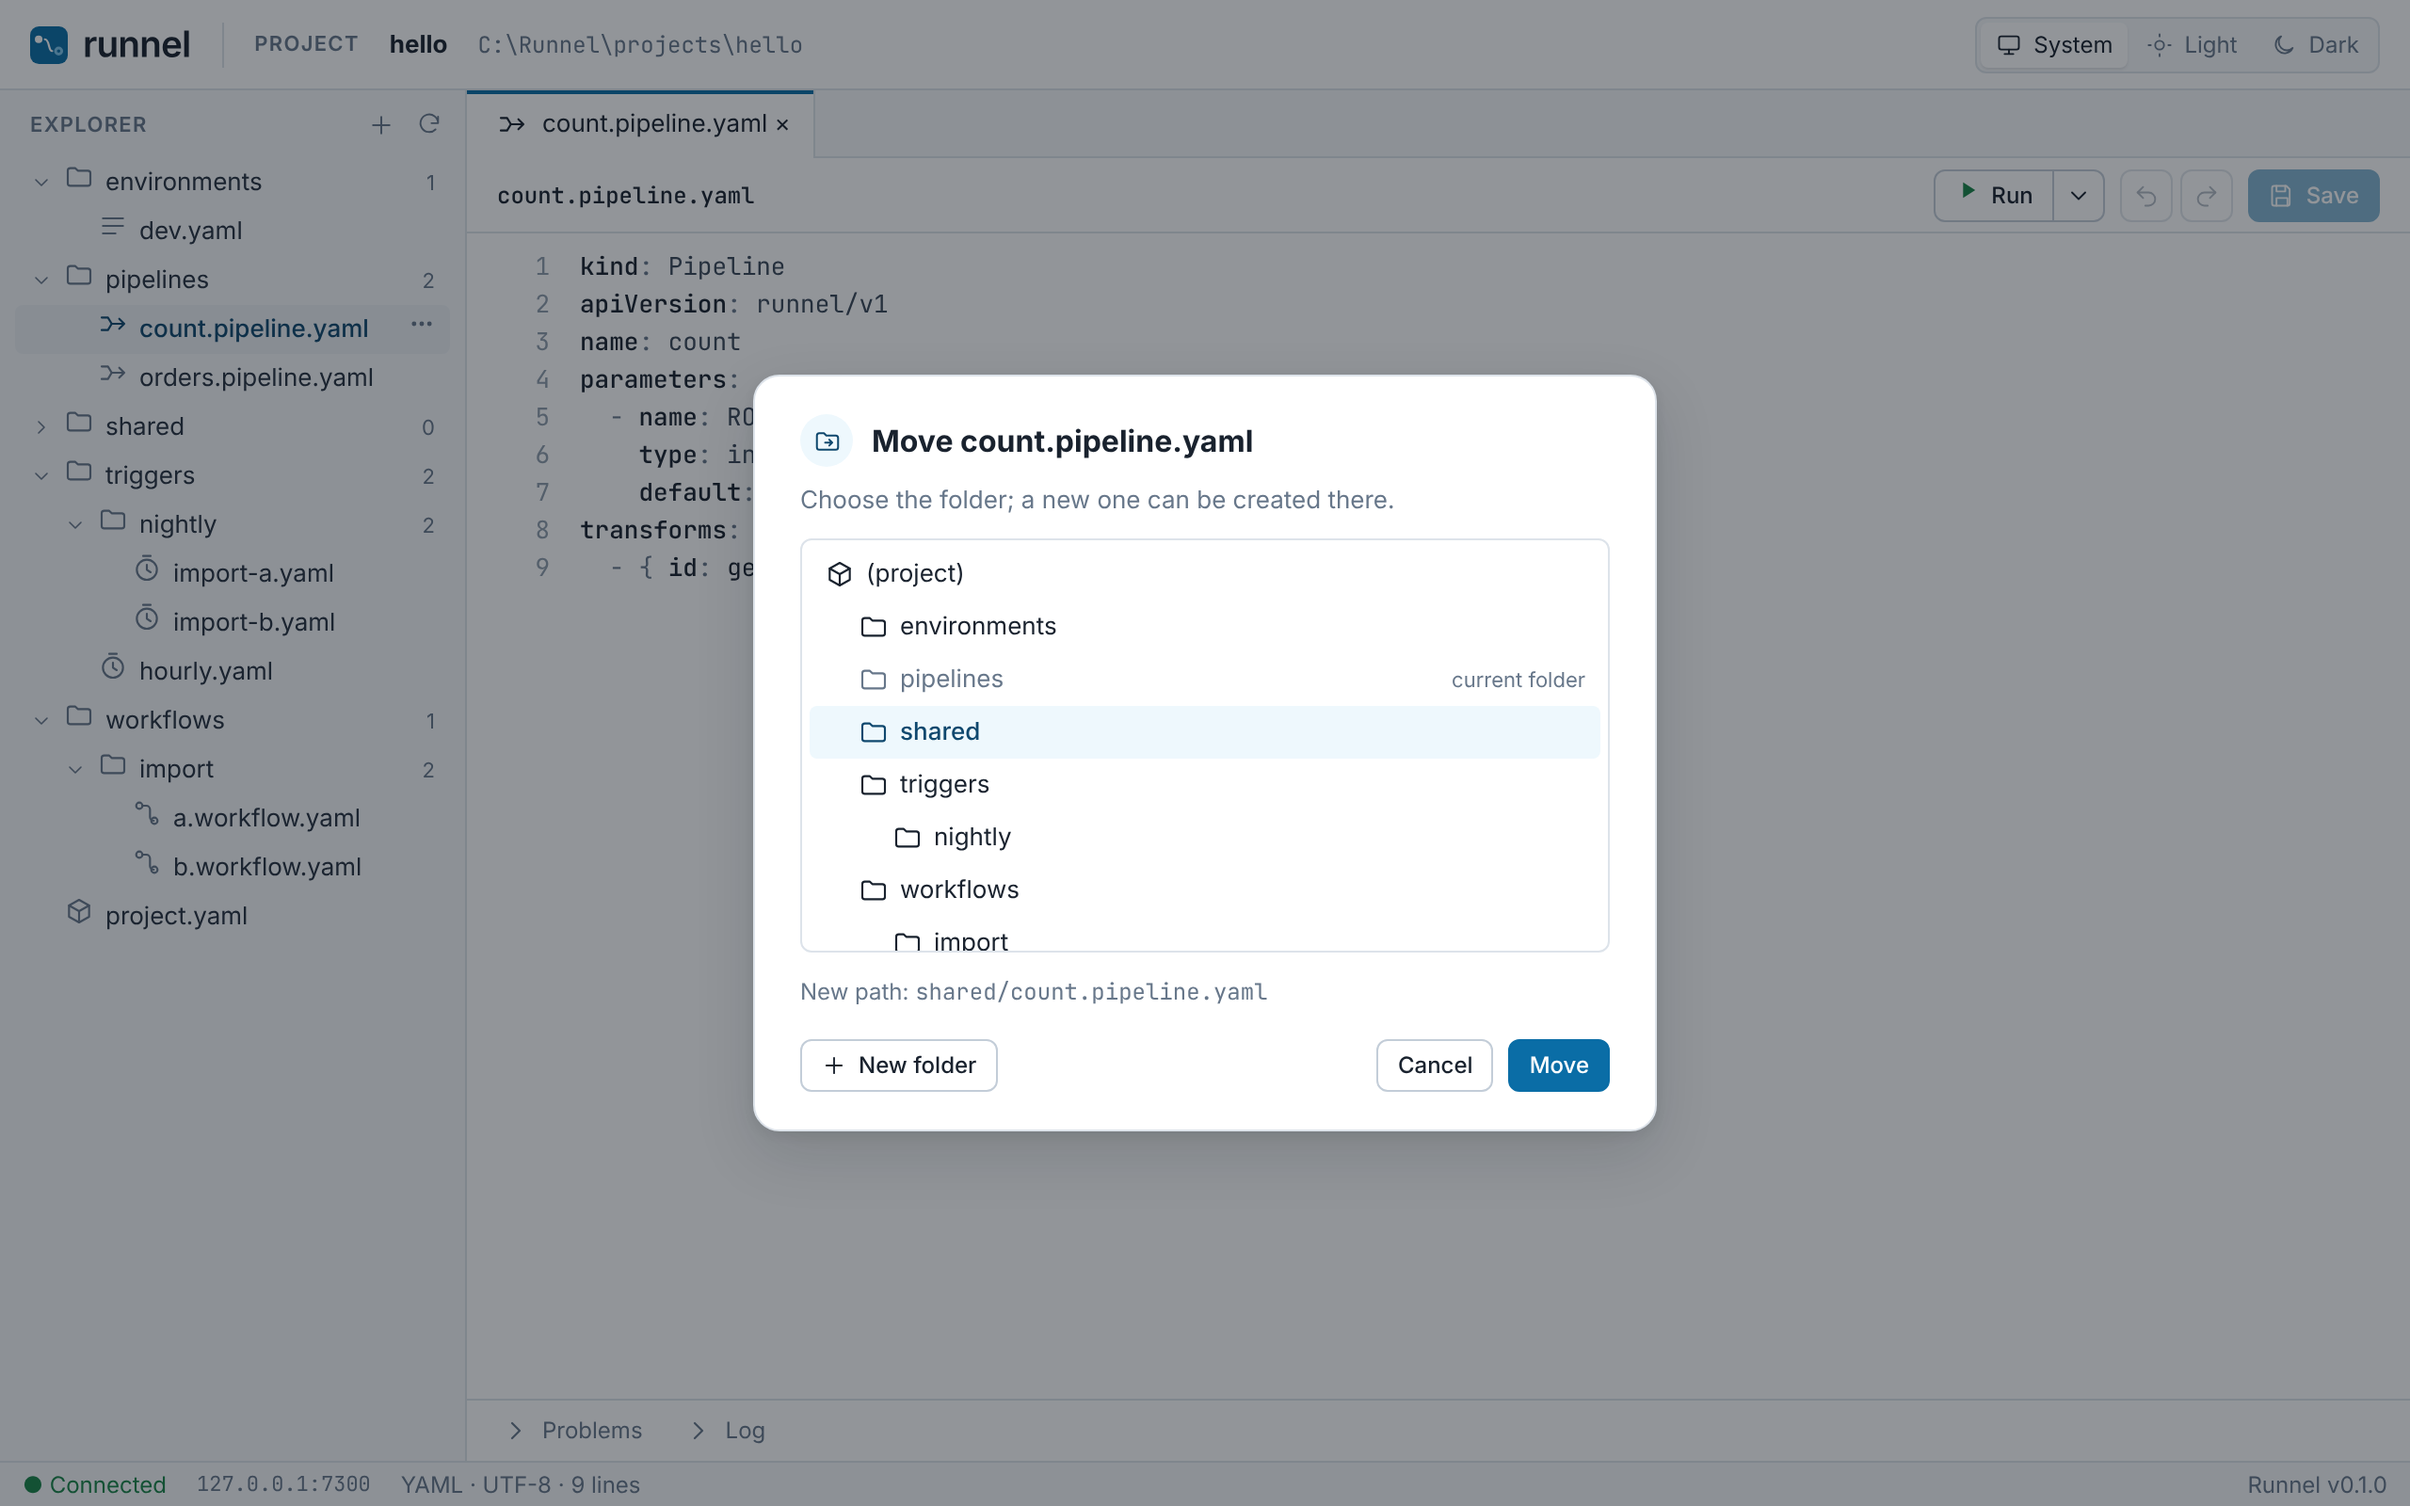
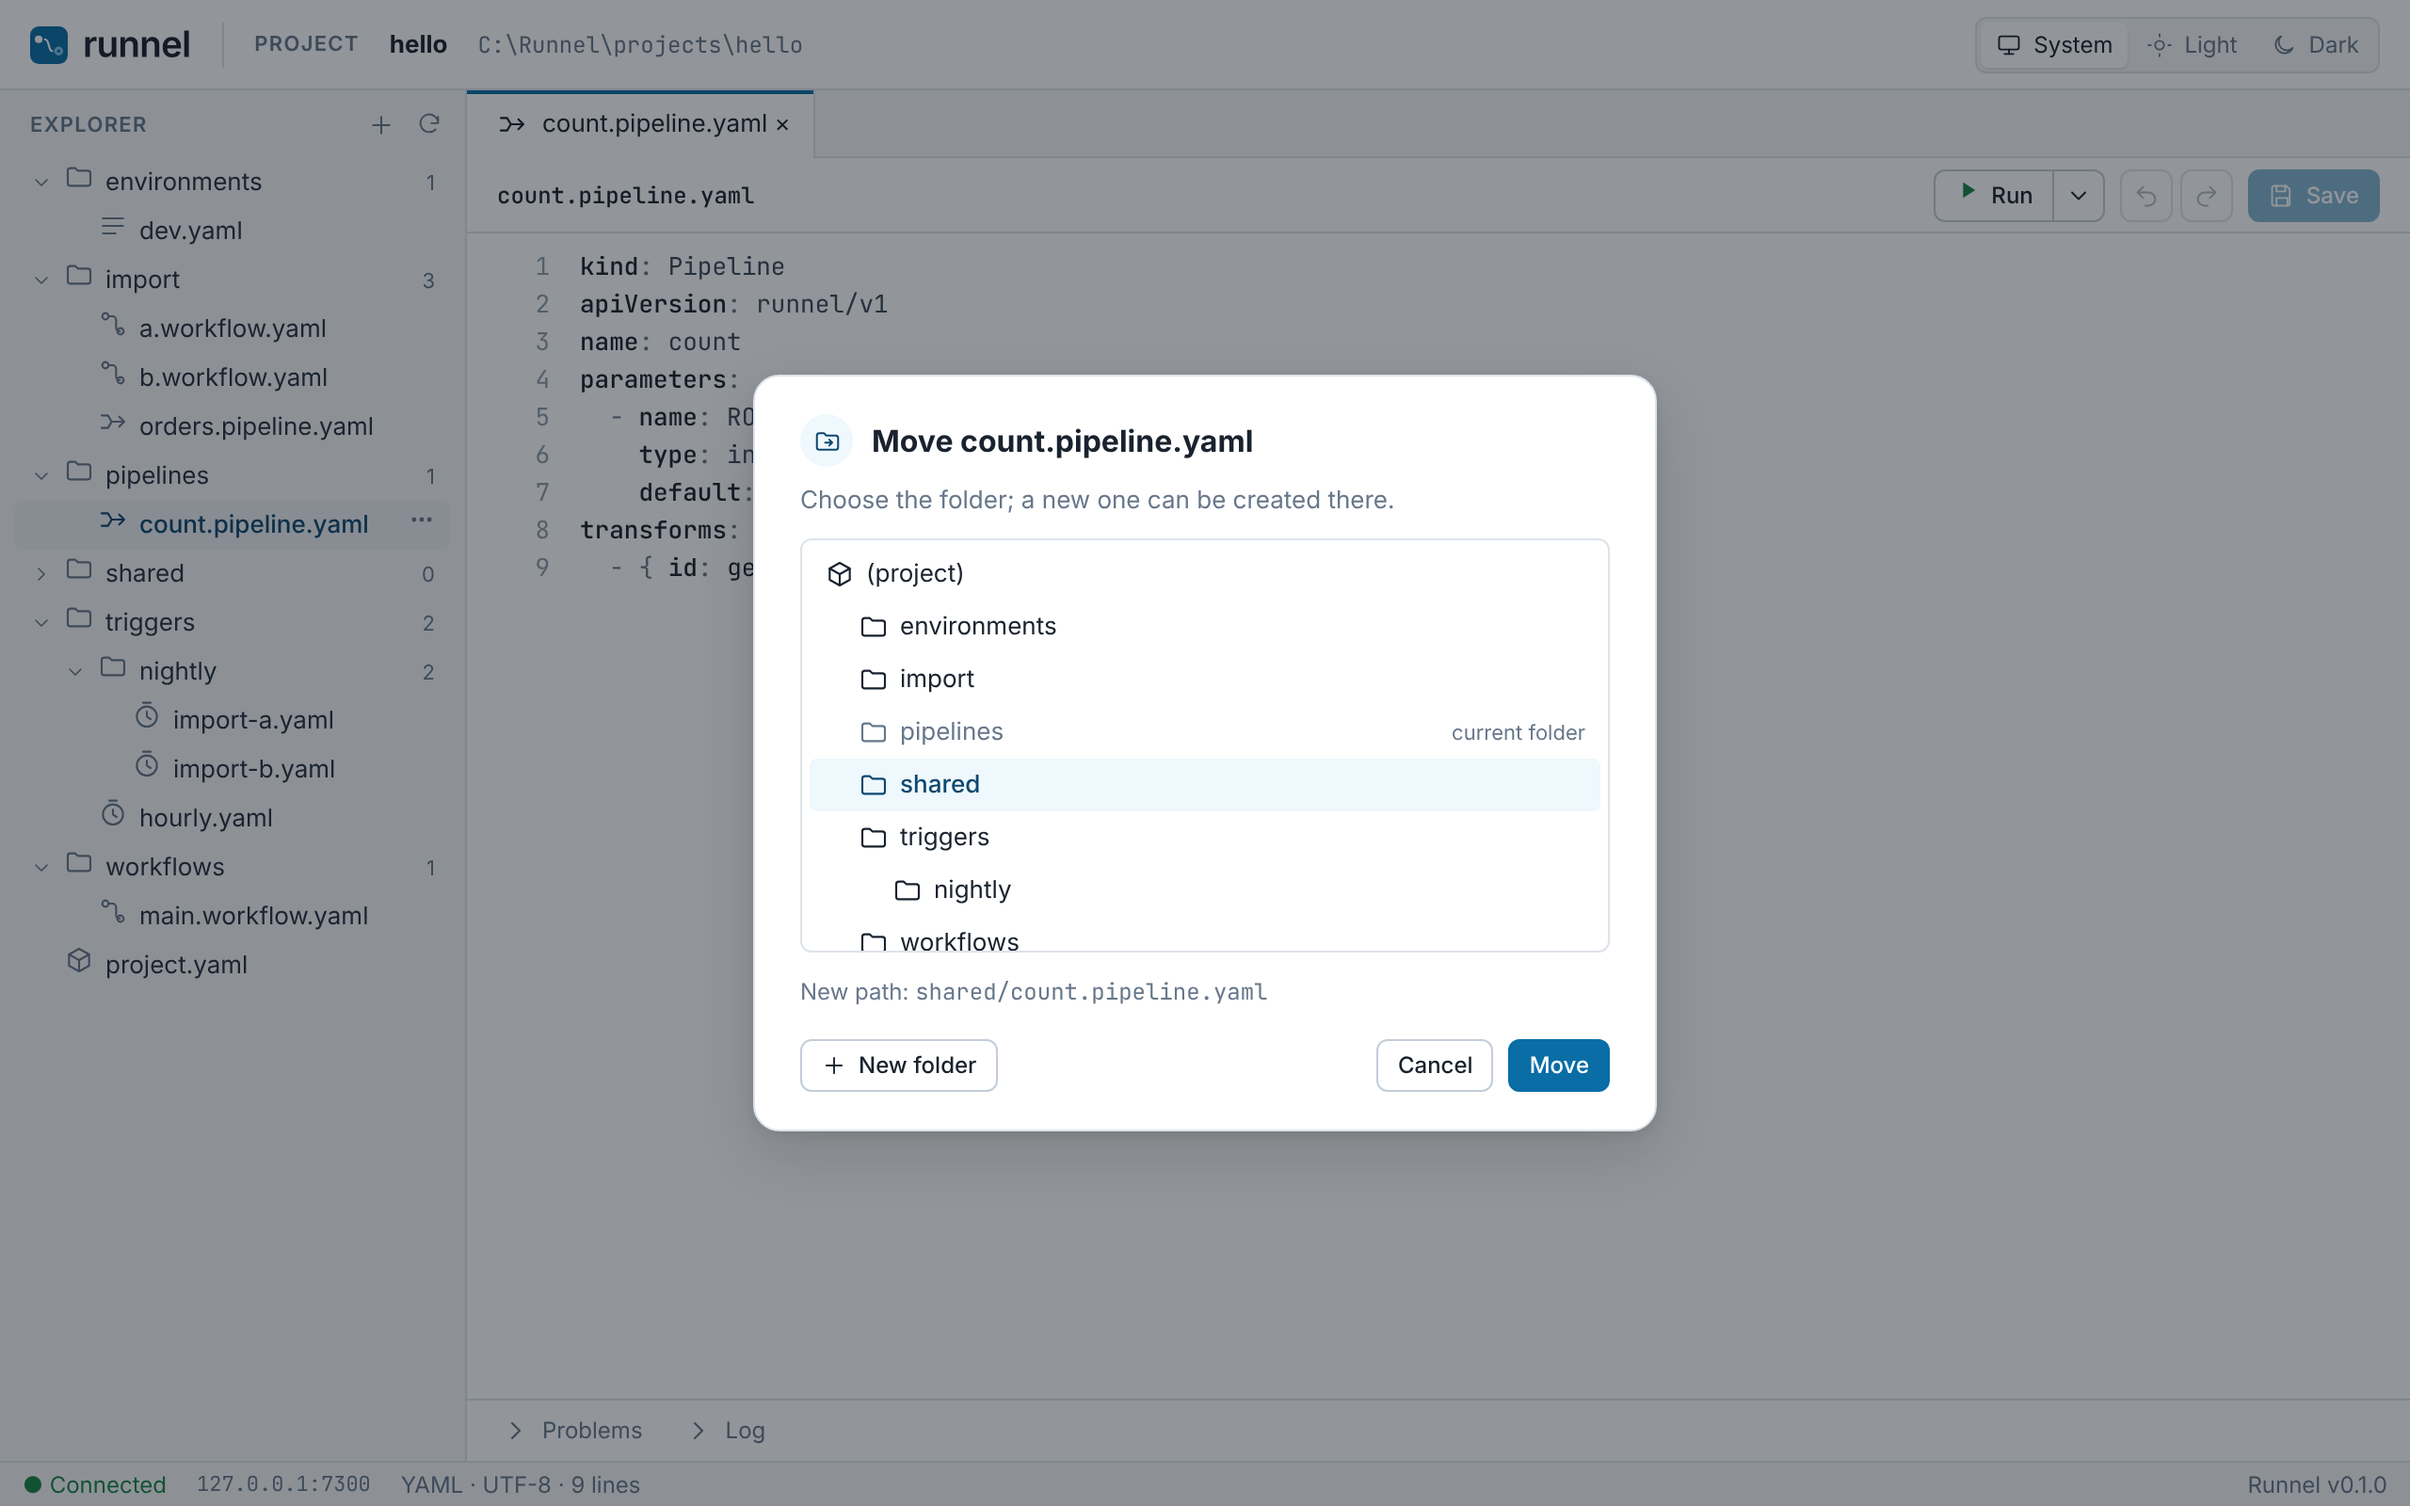
Mockup E12: Ordner nach Thema im Beispiel
Workflows und Pipeline gemeinsam in import/, dazu die Entscheidung,
dass Ordner frei gewählt werden können.

Claude-Session: https://claude.ai/code/session_015qsFfg698d5y1E1DunyBAf

Changed region(s): [[0.0312, 0.1875, 0.1562, 0.6562], [0.375, 0.4375, 0.4062, 0.6562], [0.625, 0.4375, 0.6562, 0.5]]

diff --git a/design/mockups/e12-organize.html b/design/mockups/e12-organize.html
@@ -602,12 +602,15 @@
 
   // A larger project: workflows in folders, a shared pipeline, triggers in a subfolder.
   const moved = state === "refs";
+  // Folders by topic: import/ holds workflows and the pipeline only they use;
+  // pipelines/count is used by several workflows and moves to shared/.
   const rows = [
     ["folder", "environments", 0, "1"], ["env", "dev.yaml", 1],
-    ["folder", "pipelines", 0, moved ? "1" : "2"], ...(moved ? [] : [["pl", "count.pipeline.yaml", 1]]), ["pl", "orders.pipeline.yaml", 1],
+    ["folder", "import", 0, "3"], ["wf", "a.workflow.yaml", 1], ["wf", "b.workflow.yaml", 1], ["pl", "orders.pipeline.yaml", 1],
+    ["folder", "pipelines", 0, moved ? "0" : "1"], ...(moved ? [] : [["pl", "count.pipeline.yaml", 1]]),
     ["folder", "shared", 0, moved ? "1" : "0"], ...(moved ? [["pl", "count.pipeline.yaml", 1]] : []),
     ["folder", "triggers", 0, "2"], ["folder", "nightly", 1, "2"], ["trigger", "import-a.yaml", 2], ["trigger", "import-b.yaml", 2], ["trigger", "hourly.yaml", 1],
-    ["folder", "workflows", 0, "1"], ["folder", "import", 1, "2"], ["wf", "a.workflow.yaml", 2], ["wf", "b.workflow.yaml", 2],
+    ["folder", "workflows", 0, "1"], ["wf", "main.workflow.yaml", 1],
     ["proj", "project.yaml", 0]];
   const selected = state === "triggers" ? "import-a.yaml" : "count.pipeline.yaml";
   document.getElementById("tree").innerHTML = rows.map(([k, n, d, c]) => {
@@ -635,7 +638,7 @@
 
   const lines = state === "triggers"
     ? ["# Imports file A every night (in triggers/nightly/)", "kind: Trigger", "apiVersion: runnel/v1", "name: import-a", "type: cron",
-       "target: workflows/import/a.workflow.yaml", "with:", '  schedule: "0 2 * * *"']
+       "target: import/a.workflow.yaml", "with:", '  schedule: "0 2 * * *"']
     : ["kind: Pipeline", "apiVersion: runnel/v1", "name: count", "parameters:", "  - name: ROWS", "    type: integer", '    default: "3"',
        "transforms:", '  - { id: gen, type: core.generate-rows, with: { rows: "${ROWS}" } }'];
   const vars = v => esc(v).replace(/(\$\{[^}]*\})/g, `<span class="v">$1</span>`);
@@ -658,8 +661,8 @@
     host.insertAdjacentHTML("beforeend", `<div class="dragghost" style="left:120px;top:${top0 + 300}px">${icon(kind.pl, 14)}count.pipeline.yaml<small>→ shared/</small></div>`);
   }
   if (state === "moveto") {
-    const folders = [["", "(project)", 0], ["environments", "environments", 1], ["pipelines", "pipelines", 1, true], ["shared", "shared", 1, false, true],
-                     ["triggers", "triggers", 1], ["triggers/nightly", "nightly", 2], ["workflows", "workflows", 1], ["workflows/import", "import", 2]];
+    const folders = [["", "(project)", 0], ["environments", "environments", 1], ["import", "import", 1], ["pipelines", "pipelines", 1, true],
+                     ["shared", "shared", 1, false, true], ["triggers", "triggers", 1], ["triggers/nightly", "nightly", 2], ["workflows", "workflows", 1]];
     host.insertAdjacentHTML("beforeend", `<div class="overlay"><div class="dialog" role="dialog">
       <h2><span class="sym" style="background:var(--accent);color:var(--accent-foreground)">${icon(kind.move, 15)}</span>Move count.pipeline.yaml</h2>
       <p>Choose the folder; a new one can be created there.</p>
@@ -673,8 +676,8 @@
       <h2><span class="sym" style="background:var(--accent);color:var(--accent-foreground)">${icon(kind.move, 15)}</span>Update the references?</h2>
       <p>count.pipeline.yaml moves to <code class="mono">shared/count.pipeline.yaml</code>. 3 files refer to it by its old path:</p>
       <div class="refs update"><ul class="reflist">
-        ${[["workflows/import/a.workflow.yaml", "action count (core.run-pipeline)"], ["workflows/import/b.workflow.yaml", "action count (core.run-pipeline)"],
-           ["workflows/import/b.workflow.yaml", "action totals (core.run-pipeline)"]].map(([f, w]) =>
+        ${[["import/a.workflow.yaml", "action count (core.run-pipeline)"], ["import/b.workflow.yaml", "action count (core.run-pipeline)"],
+           ["workflows/main.workflow.yaml", "action totals (core.run-pipeline)"]].map(([f, w]) =>
           `<li><label class="check"><span class="box on">✔</span></label><span><code class="mono">${f}</code> – ${w}
             <span class="diff">pipeline: <del>pipelines/count.pipeline.yaml</del> <ins>shared/count.pipeline.yaml</ins></span></span></li>`).join("")}
       </ul></div>

diff --git a/design/mockups/README.md b/design/mockups/README.md
@@ -83,6 +83,7 @@ zwischen hellem und dunklem Modus und den Zuständen (sie gehört nicht zum Entw
 | S44 | Die Tabelle bleibt ohne neue Abhängigkeit (höchstens 1.000 Zeilen, keine Virtualisierung nötig); das Konzept nannte `@tanstack/react-table` – erst bei Bedarf |
 | S44 | „Refresh“ führt die Vorschau nach Änderungen erneut aus; ein Fehler zeigt, an welchem Transform die Vorschau stehen blieb, mit der Meldung |
 | S46 | „Detect fields…“ im Abschnitt „Fields“ des Panels bei Eingabe-Transforms, die Felder ermitteln können (zuerst `csv.input`); der Server meldet das je Typ, der Editor zeigt den Knopf nur dort |
+| E12 | Ordner sind frei: nach Art (`workflows/`, `pipelines/`) oder nach Thema (z. B. `import/` mit den Workflows und der Pipeline, die nur sie nutzen; `shared/` für gemeinsam genutzte Pipelines). Ob eine Datei Workflow oder Pipeline ist, entscheidet die Endung; `workflows/` und `pipelines/` sind nur die Vorgabe für „+“ im Kopf des Explorers. Nur Trigger (`triggers/`) und Environments (`environments/`) haben feste Ordner |
 | E12 | Verschieben auf zwei Wegen: Ziehen und Ablegen im Explorer (der Zielordner wird hervorgehoben, ein Hinweis nennt den Zielordner) und „Move to…“ im Menü einer Datei oder eines Ordners mit einer Ordnerauswahl (aktueller Ordner ausgegraut, „New folder“ im Dialog) |
 | E12 | Beim Verschieben und Umbenennen fragt ein Dialog „Update the references?“, wenn andere Dateien auf den alten Pfad verweisen (Trigger-Ziel, `core.run-workflow`, `core.run-pipeline` mit festem Pfad, wie die Rückfrage beim Löschen in E11): je Verweis Datei, Stelle und alter → neuer Pfad, standardmäßig ausgewählt; „Move and update n references“, „Move only“ oder „Cancel“. Ohne Verweise kein Dialog |
 | E12 | Angepasst wird nur der Pfad in der betroffenen Zeile; die Dateien werden gespeichert. Verweise mit Variablen oder Ausdrücken werden nicht erkannt und nicht geändert (die Prüfung meldet sie danach). Ändert sich eine geöffnete Datei mit ungespeicherten Änderungen, wird sie nicht angepasst und im Dialog als nicht änderbar genannt. Damit ändert sich die Entscheidung aus E11 („Umbenennen ändert keine Verweise“) |
